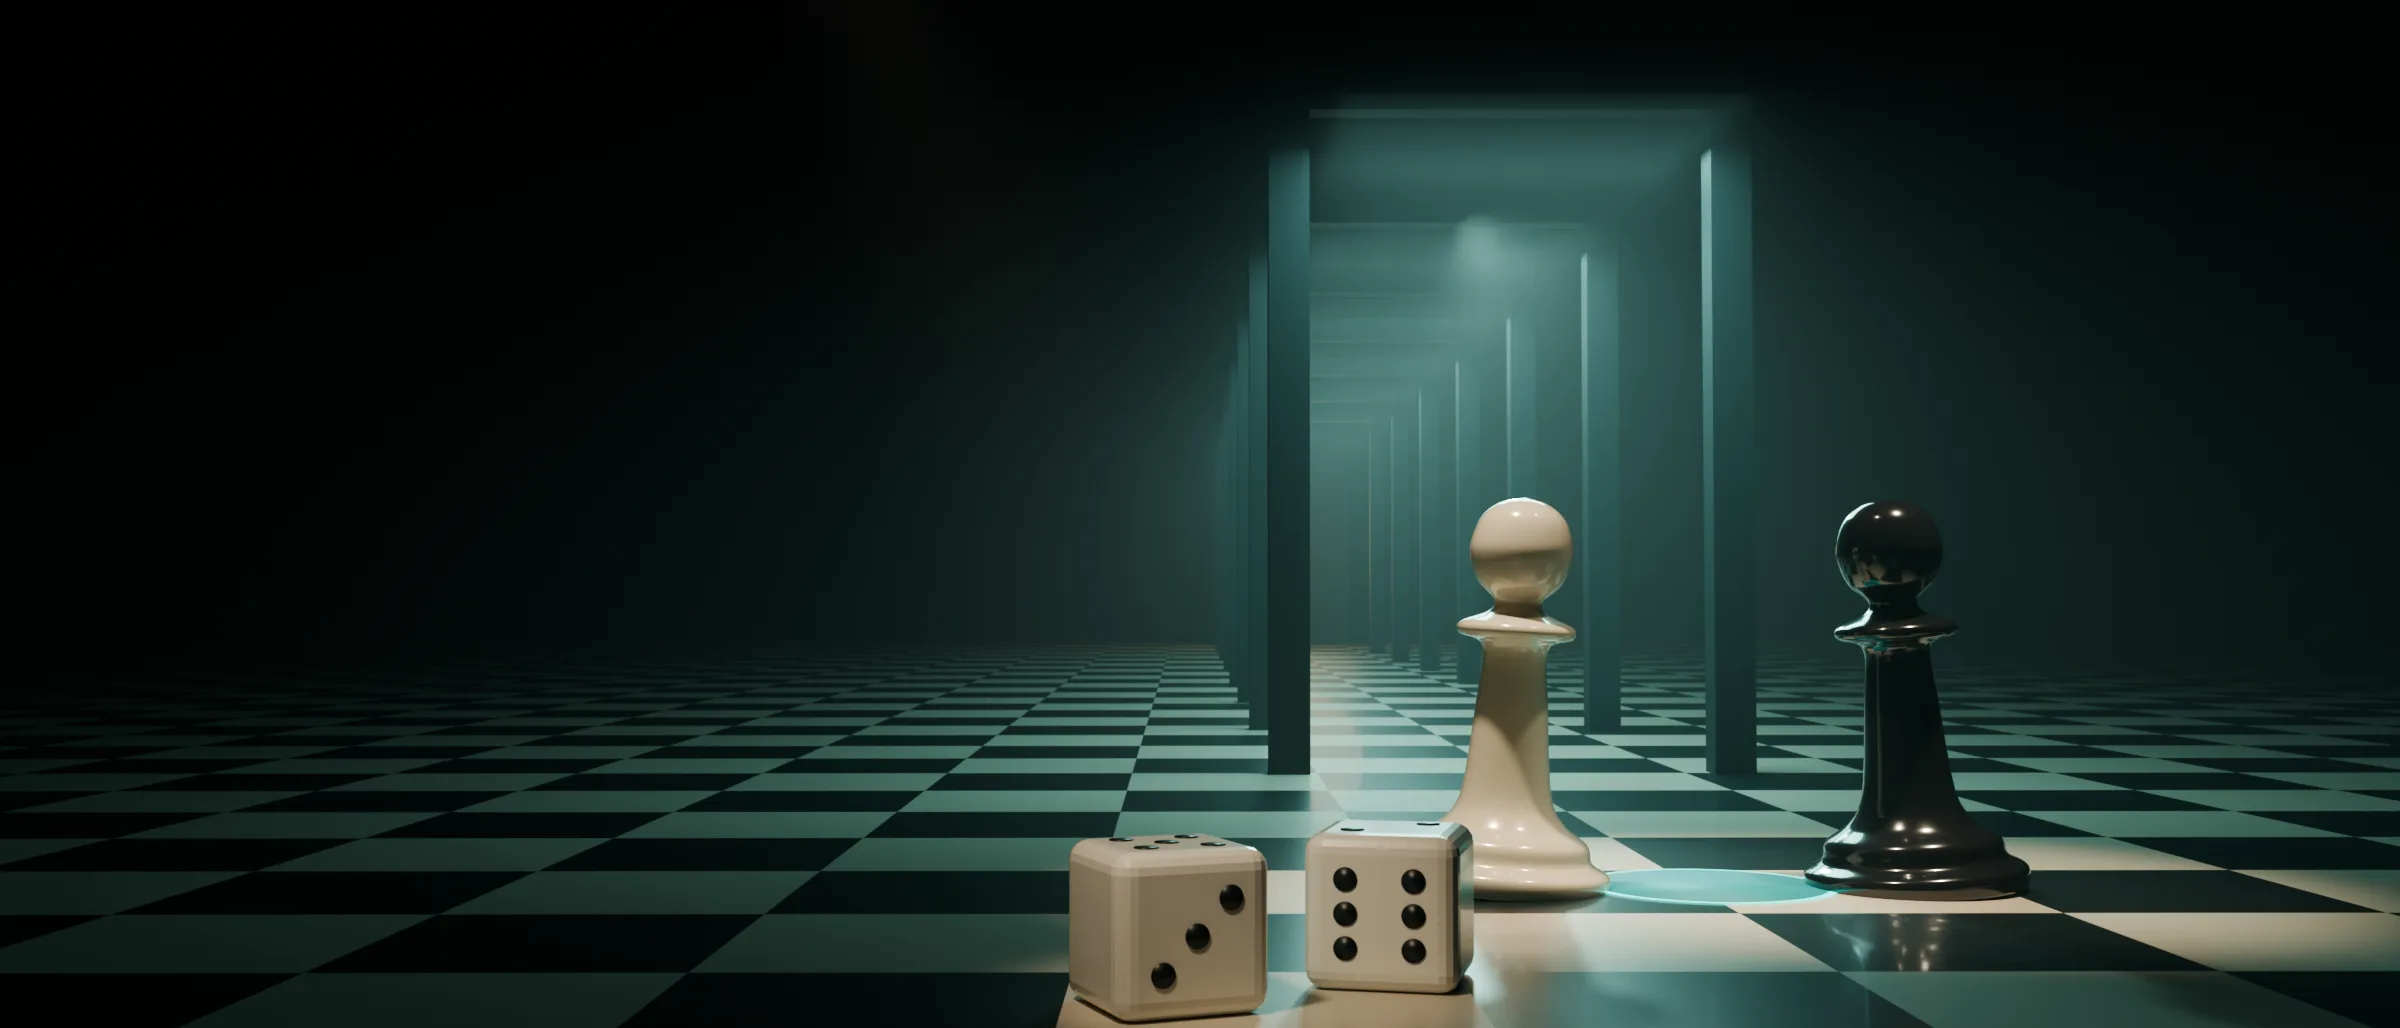
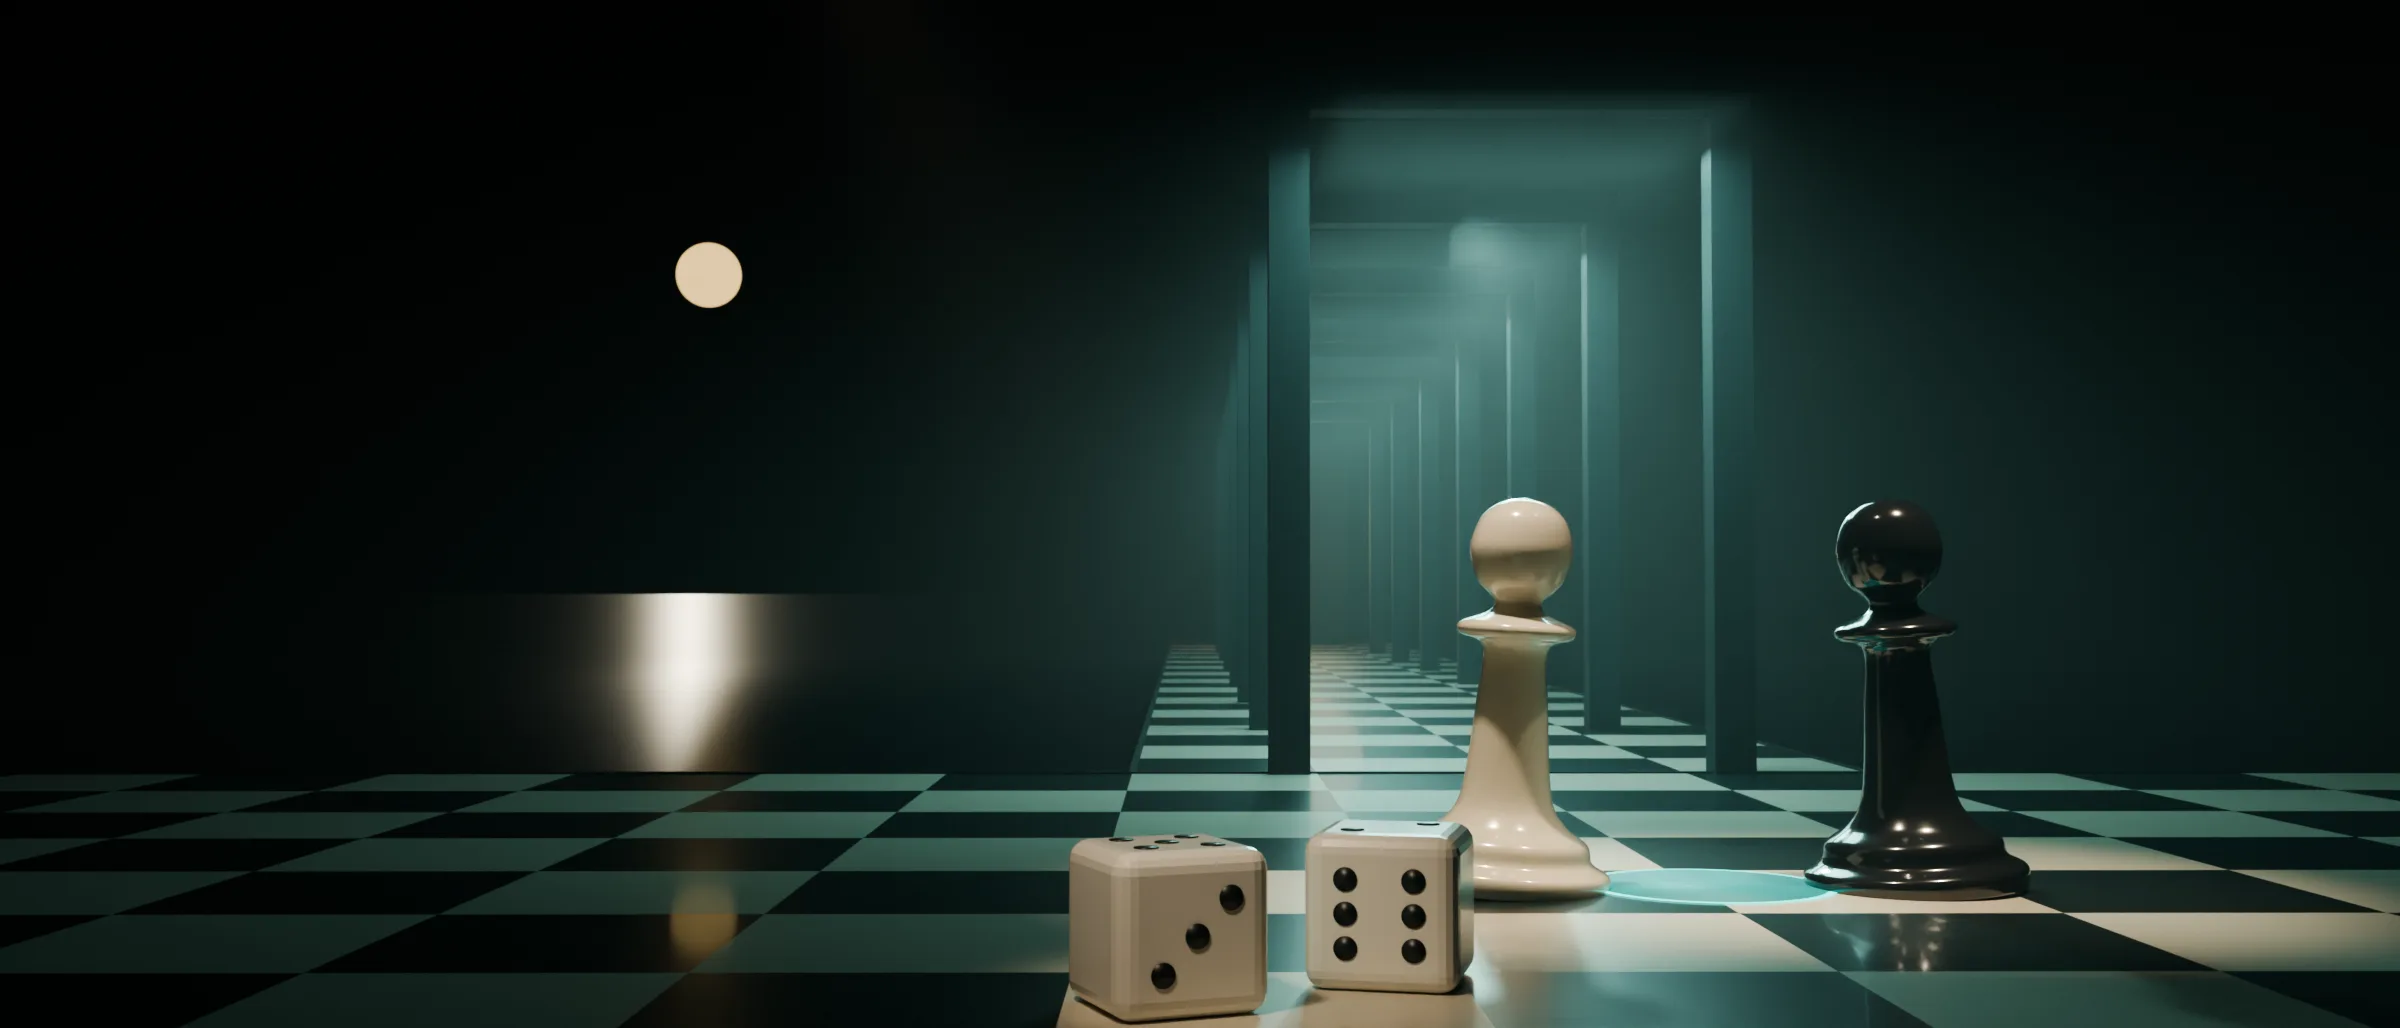
Home hero: a cream moon over a night sea beyond the dance floor
The checkered floor now ends at dark water; the corridor of doorways
carries on as a pier. A low, soft cream moon hangs on the left and lays
a path of light across the sea. Dice, pawns, doorways and the teal ring
are unchanged. Asset version bumped so the new image is fetched.

diff --git a/public/js/game.js b/public/js/game.js
@@ -442,7 +442,7 @@
     const soon = PP.episodes.find(e => e.locked);
     return `<div class="hm">
       <section class="hm-hero">
-        <div class="hm-hero-art"><img src="/img/hero-dance-floor.webp?v=${PP.assetV}" width="2400" height="1028" alt="Two chess pieces, one ivory and one black, face each other on a checkered dance floor. Each stands in its own spotlight; where the light overlaps, a teal circle glows between them. Dice rest in the foreground, and a corridor of doorways recedes into a soft glow of haze."></div>
+        <div class="hm-hero-art"><img src="/img/hero-dance-floor.webp?v=${PP.assetV}" width="2400" height="1028" alt="Two chess pieces, one ivory and one black, face each other on a checkered dance floor. Each stands in its own spotlight; where the light overlaps, a teal circle glows between them. Dice rest in the foreground, and a corridor of doorways recedes into a soft glow of haze. Beyond the floor, a low moon lays a path of light across a dark sea."></div>
         <div class="hm-hero-shade" aria-hidden="true"></div>
         <div class="wrap hm-hero-in">
           <h1 class="hm-hero-title">You don't have to be the most powerful person in the room.</h1>

diff --git a/public/js/art.js b/public/js/art.js
@@ -7,7 +7,7 @@ window.PP = window.PP || {};
 PP.art = (function () {
   let uid = 0;
   // Bump when rendered images change, so browsers fetch the new files.
-  PP.assetV = '11';
+  PP.assetV = '12';
 
   const DOG = `<g class="dog-head">
     <path d="M-30,-6 C-46,0 -48,34 -36,44 C-30,30 -28,14 -24,4 Z" fill="#5a3f28"/>

diff --git a/tools/blender/render_hero.py b/tools/blender/render_hero.py
@@ -7,6 +7,7 @@ Symbols, not words:
   curve of dance steps        moves answered by moves (Axelrod)
   receding doorways           the same meeting again and again; the glow beyond is walking away (Aumann)
   dice in the foreground      you never know everything (Duke)
+  night sea and a low moon    the floor ends; the corridor walks out over open water
 
 Run:
   /Applications/Blender.app/Contents/MacOS/Blender -b -P tools/blender/render_hero.py -- "$PWD" [--samples N]
@@ -154,12 +155,48 @@ bm = bmesh.new()
 N = 40
 for ix in range(-N // 2, N // 2):
     for iy in range(-8, 36):
+        # The floor ends at the water; only the corridor carries on, as a pier.
+        if iy >= 6 and not -1 <= ix <= 2:
+            continue
         x0, y0 = ix * 1.0, iy * 1.0
         vs = [bm.verts.new((x0, y0, 0)), bm.verts.new((x0 + 1, y0, 0)), bm.verts.new((x0 + 1, y0 + 1, 0)), bm.verts.new((x0, y0 + 1, 0))]
         f = bm.faces.new(vs)
         f.material_index = (ix + iy) % 2
 floor = mesh_from('floor', bm, [ivory_tile, dark_tile])
 floor.location = (-0.5, 0, 0)
+
+# The night sea beyond the floor: dark, gently rippled, glossy enough to carry the moon.
+sea = mat('sea', '#07101b', 0.22, coat=0.0)
+nt = sea.node_tree
+noise = nt.nodes.new('ShaderNodeTexNoise')
+noise.inputs['Scale'].default_value = 3.0
+noise.inputs['Detail'].default_value = 6.0
+mapping = nt.nodes.new('ShaderNodeMapping')
+mapping.inputs['Scale'].default_value = (1.0, 6.0, 1.0)
+coord = nt.nodes.new('ShaderNodeTexCoord')
+bump = nt.nodes.new('ShaderNodeBump')
+bump.inputs['Strength'].default_value = 0.8
+nt.links.new(coord.outputs['Object'], mapping.inputs['Vector'])
+nt.links.new(mapping.outputs['Vector'], noise.inputs['Vector'])
+nt.links.new(noise.outputs['Fac'], bump.inputs['Height'])
+nt.links.new(bump.outputs['Normal'], nt.nodes['Principled BSDF'].inputs['Normal'])
+box('sea', (0, 260, -0.4), (1600, 520, 0.02), sea)
+edge = mat('edge', '#121a1c', 0.6)
+box('floor-edge', (-0.5, 5.98, -0.2), (40, 0.04, 0.42), edge)
+for x in (-1.5, 2.5):
+    box(f'pier-side{x}', (x, 20, -0.2), (0.04, 28, 0.42), edge)
+# A low cream moon over the water, off to the left, and the cool light it throws.
+moon = mat('moon', '#000000', 0.5, emit='#eac57f', strength=3.6)
+mb = bmesh.new()
+bmesh.ops.create_icosphere(mb, subdivisions=4, radius=4.6)
+mesh_from('moon', mb, moon, smooth=True).location = (-70, 300, 46)
+ld = bpy.data.lights.new('moonlight', 'SUN')
+ld.energy = 0.12
+ld.color = lin('#e8dcc0')[:3]
+ld.angle = math.radians(0.6)
+ml = link(bpy.data.objects.new('moonlight', ld))
+ml.rotation_euler = (Vector((0, 0, 0)) - Vector((-70, 300, 46))).to_track_quat('-Z', 'Y').to_euler()
+ml.visible_volume_scatter = False
 
 # The two pieces: same shape, opposite colours, facing each other.
 profile = [(0.36, 0.0), (0.36, 0.06), (0.30, 0.10), (0.28, 0.16), (0.20, 0.22), (0.15, 0.32), (0.12, 0.62), (0.11, 0.80),

diff --git a/README.md b/README.md
@@ -134,7 +134,7 @@ Needs Blender 4.2+ (built and tested with 5.2):
 /Applications/Blender.app/Contents/MacOS/Blender -b -P tools/blender/render_envs.py -- "$PWD" --samples 128
 ```
 
-The home page header ("The Dance Floor") is its own scene: two pieces in overlapping spotlights with a shared teal ring (mixed motives, mutual gain), dance steps (reciprocity), receding doorways (repeated games, and the exit as walking away) and dice (uncertainty). Render it with:
+The home page header ("The Dance Floor") is its own scene: two pieces in overlapping spotlights with a shared teal ring (mixed motives, mutual gain), dance steps (reciprocity), receding doorways (repeated games, and the exit as walking away), dice (uncertainty), and beyond the floor a night sea under a low cream moon, the corridor carrying on as a pier. Render it with:
 
 ```bash
 /Applications/Blender.app/Contents/MacOS/Blender -b -P tools/blender/render_hero.py -- "$PWD" --samples 160
